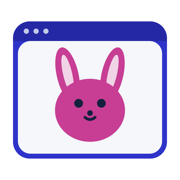
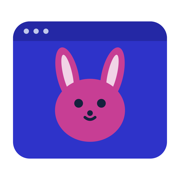
【品牌】图标屏幕区去浅底改全透明：月兔直接坐实心蓝窗上，16px 轮廓更稳，重导全档

diff --git a/experience/brand.md b/experience/brand.md
@@ -1,7 +1,7 @@
 # 品牌定案：品牌色与应用图标
 
 2026-11-09 收口。范围：品牌色板、应用图标构图、版权口径、导出矩阵。实测坑与工具细节归 `experience/adaptation/`，对外使用说明归 `docs/`。
-2026-11-19 修订应用图标构图：背景改透明、窗口与月兔放大、月兔坐进屏幕区。
+2026-11-19 修订应用图标构图：背景与屏幕区改透明、窗口与月兔放大、月兔坐进窗口。
 
 ## 品牌色板
 
@@ -10,7 +10,7 @@
 | 品牌主色·启光蓝 | `#2E33C9` | 应用图标窗口、文档站点缀、品牌物料 |
 | 品牌强调色·月兔玫红 | `#C73E94` | 图标月兔、插画点缀 |
 | 夜蓝 | `#14213D` | 深底插画、单色剪影默认色 |
-| 浅底 | `#F5F7FA` | 图标屏幕区、浅底插画 |
+| 浅底 | `#F5F7FA` | 浅底插画 |
 
 - 主色色值取自用户另一项目 light-up 的「启光」品牌主色；仅借色，native-gui 不挂「启光」名。
   - 出处：light-up 属 mindbase monorepo
@@ -21,9 +21,10 @@
 
 ## 应用图标
 
-- 构图：月兔坐进应用窗口的屏幕区，整头五官齐全；窗口扁平几何，标题栏 + 三个控制点，屏幕区浅底。
+- 构图：月兔坐进应用窗口，整头五官齐全；窗口扁平几何，标题栏 + 三个控制点。
 - 造型要点：圆头 + 长椭圆耳 + 圆点眼 + 单弧微笑；窗口是 GUI 通用符号而非显示器，跨桌面/移动端成立。
-- 透明底：master 不带背景底，全档透明出图，深浅底界面直接放。
+- 透明底：master 不带背景底与屏幕底，全档透明出图，深浅底界面直接放。
+  - 窗口整块实心蓝：屏幕区不垫浅底，月兔直接坐在窗口上；实心轮廓小尺寸不散。
 - 尺寸策略：单 master SVG 缩放全档；16px 仍可辨——窗口轮廓 + 兔耳。
 - 源资产：`assets/brand/app-icon.svg` 是 master；`assets/brand/app-icon-mono.svg` 是纯月兔单色剪影——托盘 / Android themed icon 预留，改 fill 即可染色。
   - mono 不带窗口：窗口与月兔同色剪影会连成一团，小尺寸读不出兔子。

diff --git a/docs/reference/roadmap.md b/docs/reference/roadmap.md
@@ -693,7 +693,7 @@ CSS 属性补全与产品原则落差的就绪度档案在对内方案 proposals
 
 ### 工程与交付
 
-- ⏳ **品牌与应用图标 v1**：master 图标「月兔坐进应用窗口的屏幕」透明底 + 品牌四色落 `assets/brand/`
+- ⏳ **品牌与应用图标 v1**：master 图标「月兔坐进应用窗口」透明底 + 品牌四色落 `assets/brand/`
   - 定案：见对内 experience/brand.md。
   - 导出矩阵脚本化：macOS icns / Windows ico / Linux png / favicon / 文档站 logo。
   - 待验：应用图标替换真机

diff --git a/assets/brand/README.md b/assets/brand/README.md
@@ -25,6 +25,6 @@
 
 ## 使用注意
 
-- 16px 档直接缩 master；透明底，窗口蓝框与月兔粉在深浅界面都稳。
+- 16px 档直接缩 master；透明底，实心蓝窗 + 月兔粉在深浅界面都稳。
 - 单色场景（终端、托盘深色菜单栏）用 `app-icon-mono.svg`。
 - 不用于暗示 MoonBit 官方背书。
